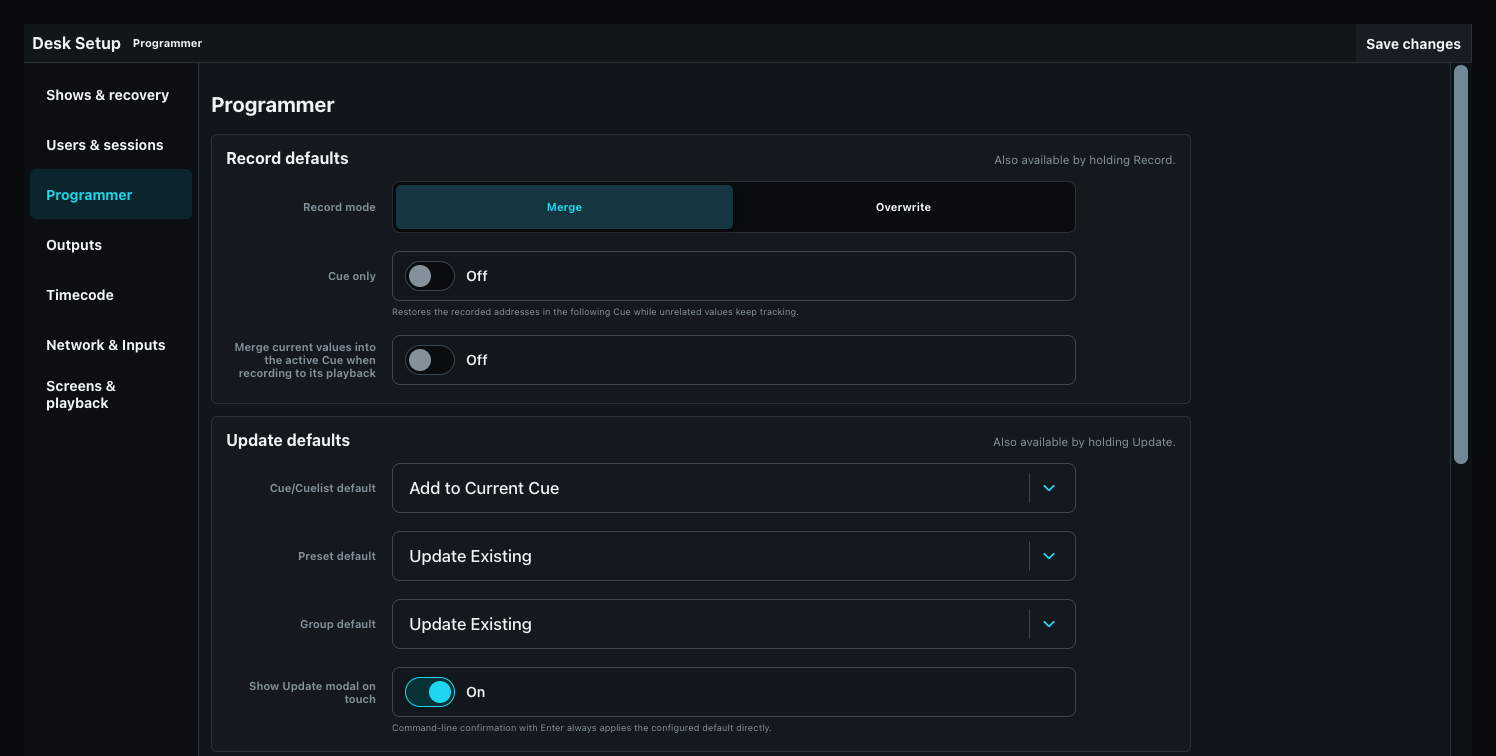
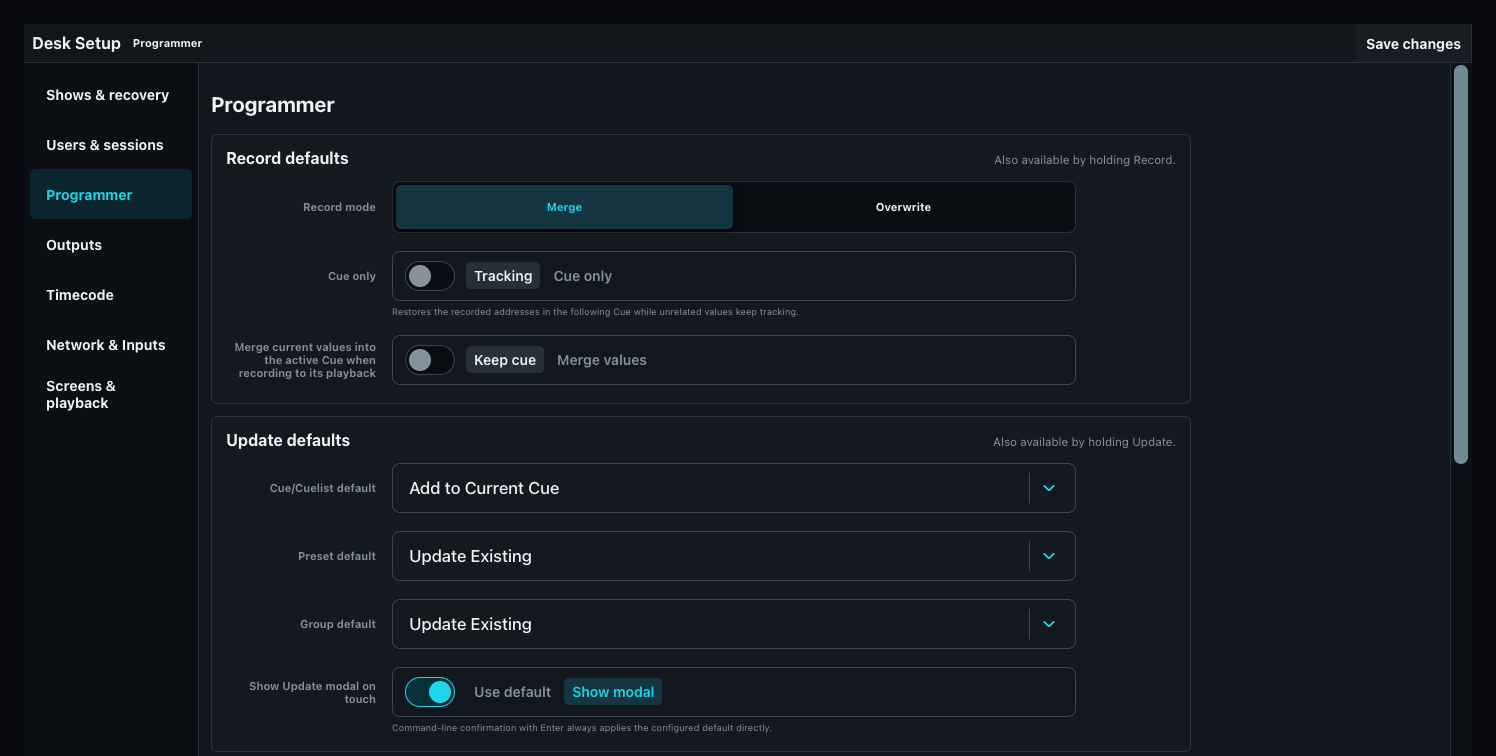
feat: add semantic checkbox and toggle labels

Changed region(s): [[0.3075, 0.8823, 0.4612, 0.9431], [0.3075, 0.4563, 0.4305, 0.5172], [0.3075, 0.3347, 0.3997, 0.3955]]

diff --git a/apps/light-desktop/src/components/modals/PaneSettingsModal.tsx b/apps/light-desktop/src/components/modals/PaneSettingsModal.tsx
@@ -58,7 +58,7 @@ function CuePaneSettings({ pane, cueLists }: { pane: PaneModel; cueLists: readon
   return <FormLayout labelPlacement="side">
     <MultiValueToggleField label="Displayed Cuelist" value={pane.cueListSource ?? "fixed"} onChange={(source) => dispatch({ type: "SET_PANE_CUELIST", id: pane.id, source })} options={[{ value: "fixed", label: "Fixed" }, { value: "follow-selection", label: "Follow selection" }]}/>
     <SelectField label="Cuelist" value={String(fixedNumber ?? "")} disabled={(pane.cueListSource ?? "fixed") !== "fixed" || cueLists.length === 0} onChange={(value) => dispatch({ type: "SET_PANE_CUELIST", id: pane.id, number: Number(value) })} options={cueLists.map((definition) => ({ value: String(definition.number), label: `${definition.number} · ${definition.name}` }))}/>
-    <SwitchField label="Show Cue sidebar" checked={pane.showCueSidebar ?? true} onChange={(event) => dispatch({ type: "SET_PANE_CUE_SIDEBAR", id: pane.id, value: event.target.checked })}/>
+    <SwitchField label="Cue sidebar" offLabel="Hidden" onLabel="Visible" checked={pane.showCueSidebar ?? true} onChange={(event) => dispatch({ type: "SET_PANE_CUE_SIDEBAR", id: pane.id, value: event.target.checked })}/>
   </FormLayout>;
 }
 
@@ -80,16 +80,16 @@ function PaneSettingsDialog({ pane }: { pane: PaneModel }) {
   if (pane.kind === "cues") {
     tabs.push({ id: "cues", label: "Cues", content: <CuePaneSettings pane={pane} cueLists={cuePaneCueLists}/> });
   }
-  if (pane.kind === "presets") tabs.push({ id: "pool", label: "Pool", content: <><h3>Preset family</h3><div className="button-group">{PRESET_FAMILIES.map((family) => <Button key={family} className={(pane.presetFamily ?? state.presetFamily) === family ? "active" : ""} onClick={() => dispatch({ type: "SET_PANE_PRESET_FAMILY", id: pane.id, family })}>{family}</Button>)}</div><SwitchField label="Enable pool colors" checked={pane.presetPoolColors ?? true} onChange={(event) => dispatch({ type: "SET_PANE_PRESET_COLORS", id: pane.id, value: event.target.checked })}/></> });
-  if (pane.kind === "stage") tabs.push({ id: "stage", label: "Stage", content: <FormLayout labelPlacement="side"><MultiValueToggleField label="Stage view" value={pane.stageView ?? "2d"} onChange={(value) => dispatch({ type: "SET_PANE_STAGE_OPTION", id: pane.id, option: "stageView", value })} options={[{ value: "2d", label: "2D" }, { value: "3d", label: "3D" }]}/><SwitchField label="Follow Preload" checked={Boolean(pane.followPreload)} onChange={(event) => dispatch({ type: "SET_PANE_STAGE_OPTION", id: pane.id, option: "followPreload", value: event.target.checked })}/><SwitchField label="Beam direction guides" checked={pane.showBeamGuides ?? true} onChange={(event) => dispatch({ type: "SET_PANE_STAGE_OPTION", id: pane.id, option: "showBeamGuides", value: event.target.checked })}/></FormLayout> });
+  if (pane.kind === "presets") tabs.push({ id: "pool", label: "Pool", content: <><h3>Preset family</h3><div className="button-group">{PRESET_FAMILIES.map((family) => <Button key={family} className={(pane.presetFamily ?? state.presetFamily) === family ? "active" : ""} onClick={() => dispatch({ type: "SET_PANE_PRESET_FAMILY", id: pane.id, family })}>{family}</Button>)}</div><SwitchField label="Pool colors" offLabel="Disabled" onLabel="Enabled" checked={pane.presetPoolColors ?? true} onChange={(event) => dispatch({ type: "SET_PANE_PRESET_COLORS", id: pane.id, value: event.target.checked })}/></> });
+  if (pane.kind === "stage") tabs.push({ id: "stage", label: "Stage", content: <FormLayout labelPlacement="side"><MultiValueToggleField label="Stage view" value={pane.stageView ?? "2d"} onChange={(value) => dispatch({ type: "SET_PANE_STAGE_OPTION", id: pane.id, option: "stageView", value })} options={[{ value: "2d", label: "2D" }, { value: "3d", label: "3D" }]}/><SwitchField label="Preload source" offLabel="Manual" onLabel="Follow preload" checked={Boolean(pane.followPreload)} onChange={(event) => dispatch({ type: "SET_PANE_STAGE_OPTION", id: pane.id, option: "followPreload", value: event.target.checked })}/><SwitchField label="Beam direction guides" offLabel="Hidden" onLabel="Visible" checked={pane.showBeamGuides ?? true} onChange={(event) => dispatch({ type: "SET_PANE_STAGE_OPTION", id: pane.id, option: "showBeamGuides", value: event.target.checked })}/></FormLayout> });
   if (pane.kind === "development") tabs.push({ id: "development", label: "Development", content: <FormLayout labelPlacement="side"><SelectField label="Shown example" value={pane.developmentView ?? "forms"} onChange={(value) => dispatch({ type: "SET_PANE_DEVELOPMENT_VIEW", id: pane.id, value })} options={DEVELOPMENT_VIEW_OPTIONS}/></FormLayout> });
   if (pane.kind === "virtual_playbacks") {
     const rows = pane.virtualPlaybackRows ?? 2;
     const columns = pane.virtualPlaybackColumns ?? 2;
     tabs.push({ id: "virtual", label: "Virtual Playbacks", content: <><FormLayout labelPlacement="side"><NumberField label="Rows" min="1" max="12" value={rows} onChange={(event) => dispatch({ type: "SET_VIRTUAL_PLAYBACK_GRID", id: pane.id, rows: Number(event.target.value), columns })}/><NumberField label="Columns" min="1" max="12" value={columns} onChange={(event) => dispatch({ type: "SET_VIRTUAL_PLAYBACK_GRID", id: pane.id, rows, columns: Number(event.target.value) })}/></FormLayout><p>Assign cells with <b>Set Source</b>, <b>Add Target</b>, or the normal [SET], source, target sequence.</p><VirtualPlaybackZoneSettings pane={pane} rows={rows} columns={columns}/></> });
   }
-  if (pane.kind === "file_manager") tabs.push({ id: "files", label: "File Manager", content: <FormLayout labelPlacement="side"><SwitchField label="Show Hidden" checked={Boolean(pane.fileManagerShowHidden)} onChange={(event) => dispatch({ type: "SET_FILE_MANAGER_SHOW_HIDDEN", id: pane.id, value: event.target.checked })}/></FormLayout> });
-  if (pane.kind === "text_editor") tabs.push({ id: "editor", label: "Text Editor", content: <FormLayout labelPlacement="side"><SwitchField label="Read-only pane" checked={Boolean(pane.textEditorReadOnly)} onChange={(event) => dispatch({ type: "SET_TEXT_EDITOR_SETTINGS", id: pane.id, readOnly: event.target.checked })}/><MultiValueToggleField label="View" value={pane.textEditorMode ?? "plain"} onChange={(mode) => dispatch({ type: "SET_TEXT_EDITOR_SETTINGS", id: pane.id, mode })} options={[{ value: "plain", label: "Plain Text" }, { value: "markdown", label: "Rendered Markdown" }, { value: "split", label: "Edit + Markdown" }]}/></FormLayout> });
-  if (["stage", "fixtures", "presets"].includes(pane.kind)) tabs.push({ id: "shortcuts", label: "Shortcuts", content: <SwitchField label="Show group shortcuts" checked={Boolean(pane.showGroupShortcuts)} onChange={(event) => dispatch({ type: "SET_PANE_GROUP_SHORTCUTS", id: pane.id, value: event.target.checked })}/> });
+  if (pane.kind === "file_manager") tabs.push({ id: "files", label: "File Manager", content: <FormLayout labelPlacement="side"><SwitchField label="Hidden files" offLabel="Hidden" onLabel="Visible" checked={Boolean(pane.fileManagerShowHidden)} onChange={(event) => dispatch({ type: "SET_FILE_MANAGER_SHOW_HIDDEN", id: pane.id, value: event.target.checked })}/></FormLayout> });
+  if (pane.kind === "text_editor") tabs.push({ id: "editor", label: "Text Editor", content: <FormLayout labelPlacement="side"><SwitchField label="Editing" offLabel="Editable" onLabel="Read only" checked={Boolean(pane.textEditorReadOnly)} onChange={(event) => dispatch({ type: "SET_TEXT_EDITOR_SETTINGS", id: pane.id, readOnly: event.target.checked })}/><MultiValueToggleField label="View" value={pane.textEditorMode ?? "plain"} onChange={(mode) => dispatch({ type: "SET_TEXT_EDITOR_SETTINGS", id: pane.id, mode })} options={[{ value: "plain", label: "Plain Text" }, { value: "markdown", label: "Rendered Markdown" }, { value: "split", label: "Edit + Markdown" }]}/></FormLayout> });
+  if (["stage", "fixtures", "presets"].includes(pane.kind)) tabs.push({ id: "shortcuts", label: "Shortcuts", content: <SwitchField label="Group shortcuts" offLabel="Hidden" onLabel="Visible" checked={Boolean(pane.showGroupShortcuts)} onChange={(event) => dispatch({ type: "SET_PANE_GROUP_SHORTCUTS", id: pane.id, value: event.target.checked })}/> });
   return <WindowSettings title="Pane Settings" tabs={tabs} onClose={close} />;
 }

diff --git a/apps/ui-library/src/common/controls/choices.tsx b/apps/ui-library/src/common/controls/choices.tsx
@@ -244,45 +244,75 @@ type CheckProps = Omit<InputHTMLAttributes<HTMLInputElement>, "type" | "size"> &
   labelPlacement?: LabelPlacement;
 };
 
+export type CheckboxFieldProps = CheckProps & {
+  /**
+   * Describes the option controlled by the checkbox. This text remains stable
+   * when the checked state changes.
+   */
+  stateLabel?: ReactNode;
+};
+
+export type SwitchFieldProps = CheckProps & {
+  /** Describes the false state. Both state labels remain visible. */
+  offLabel?: ReactNode;
+  /** Describes the true state. Both state labels remain visible. */
+  onLabel?: ReactNode;
+};
+
 function useFieldId(id?: string) {
   const generated = useId();
   return id ?? generated;
 }
 
-function CheckState({ checked, kind }: { checked?: boolean; kind: "check" | "switch" }) {
-  if (kind === "switch") {
-    return <><span className="ui-switch-track" aria-hidden="true"><i/></span>
-      <span className="ui-check-state">{checked ? "On" : "Off"}</span></>;
-  }
-  return <><span className="ui-check-mark" aria-hidden="true">✓</span>
-    <span className="ui-check-state">{checked ? "Checked" : "Unchecked"}</span></>;
-}
-
-function renderCheckField(
-  kind: "check" | "switch",
-  { label, description, error, labelPlacement, className = "", id, "aria-label": ariaLabel, ...props }: CheckProps,
+function renderCheckboxField(
+  { label, description, error, labelPlacement, className = "", id, stateLabel,
+    "aria-label": ariaLabel, ...props }: CheckboxFieldProps,
   ref: ForwardedRef<HTMLInputElement>,
   fieldId: string,
 ) {
   return <FormField label={label} description={description} error={error}
     htmlFor={fieldId} labelPlacement={labelPlacement} className={className}>
-    <label className={kind === "switch" ? "ui-switch-control" : "ui-check-control"}>
+    <label className="ui-check-control">
       <input {...props} ref={ref} id={fieldId}
         aria-label={ariaLabel ?? (typeof label === "string" ? label : undefined)}
-        type="checkbox" role={kind === "switch" ? "switch" : undefined}/>
-      <CheckState checked={props.checked} kind={kind}/>
+        type="checkbox"/>
+      <span className="ui-check-mark" aria-hidden="true">✓</span>
+      <span className="ui-check-state">
+        {stateLabel ?? (props.checked ? "Checked" : "Unchecked")}
+      </span>
     </label>
   </FormField>;
 }
 
-export const CheckboxField = forwardRef<HTMLInputElement, CheckProps>(function CheckboxField(
+function renderSwitchField(
+  { label, description, error, labelPlacement, className = "", id,
+    offLabel = "Off", onLabel = "On", "aria-label": ariaLabel, ...props }: SwitchFieldProps,
+  ref: ForwardedRef<HTMLInputElement>,
+  fieldId: string,
+) {
+  return <FormField label={label} description={description} error={error}
+    htmlFor={fieldId} labelPlacement={labelPlacement} className={className}>
+    <label className="ui-switch-control">
+      <input {...props} ref={ref} id={fieldId}
+        aria-label={ariaLabel ?? (typeof label === "string" ? label : undefined)}
+        type="checkbox" role="switch"/>
+      <span className="ui-switch-track" aria-hidden="true"><i/></span>
+      <span className="ui-switch-states" aria-hidden="true">
+        <span className="ui-switch-state ui-switch-state-off">{offLabel}</span>
+        <span className="ui-switch-state ui-switch-state-on">{onLabel}</span>
+      </span>
+    </label>
+  </FormField>;
+}
+
+export const CheckboxField = forwardRef<HTMLInputElement, CheckboxFieldProps>(function CheckboxField(
   props, ref,
 ) {
-  return renderCheckField("check", props, ref, useFieldId(props.id));
+  return renderCheckboxField(props, ref, useFieldId(props.id));
 });
 
-export const SwitchField = forwardRef<HTMLInputElement, CheckProps>(function SwitchField(
+export const SwitchField = forwardRef<HTMLInputElement, SwitchFieldProps>(function SwitchField(
   props, ref,
 ) {
-  return renderCheckField("switch", props, ref, useFieldId(props.id));
+  return renderSwitchField(props, ref, useFieldId(props.id));
 });

diff --git a/apps/light-desktop/src/components/setup/screens/ScreenSettingsCards.tsx b/apps/light-desktop/src/components/setup/screens/ScreenSettingsCards.tsx
@@ -39,13 +39,13 @@ function ScreenSettingsFields({
 	return <div className="screen-settings-columns">
 		<section><h3>Layout</h3><div className="screen-settings-fields">
 			<SelectField label="Desktop" value={draft.layout.activeDeskId} onChange={(activeDeskId) => update({ layout: { desks, activeDeskId } })} options={desks.map((desk) => ({ value: desk.id, label: desk.name }))}/>
-			<SwitchField label="Show Dock" checked={draft.show_dock} onChange={(event) => update({ show_dock: event.target.checked })}/>
-			<SwitchField label="Show Playbacks" checked={draft.show_playbacks} onChange={(event) => update({ show_playbacks: event.target.checked })}/>
-			<SwitchField label="Show Page Controls" checked={draft.show_page_controls} onChange={(event) => update({ show_page_controls: event.target.checked })}/>
+			<SwitchField label="Dock" offLabel="Hidden" onLabel="Visible" checked={draft.show_dock} onChange={(event) => update({ show_dock: event.target.checked })}/>
+			<SwitchField label="Playbacks" offLabel="Hidden" onLabel="Visible" checked={draft.show_playbacks} onChange={(event) => update({ show_playbacks: event.target.checked })}/>
+			<SwitchField label="Page controls" offLabel="Hidden" onLabel="Visible" checked={draft.show_page_controls} onChange={(event) => update({ show_page_controls: event.target.checked })}/>
 		</div></section>
 		<section><h3>Placement</h3><div className="screen-settings-fields">
 			<SelectField label="Physical Display" value={draft.display_id ?? ""} onChange={(value) => update({ display_id: value || null })} options={[{ value: "", label: "Choose when opened" }, ...displays.map((display) => ({ value: display.id, label: display.name }))]}/>
-			<SwitchField label="Fullscreen" checked={draft.fullscreen} onChange={(event) => update({ fullscreen: event.target.checked })}/>
+			<SwitchField label="Window mode" offLabel="Windowed" onLabel="Fullscreen" checked={draft.fullscreen} onChange={(event) => update({ fullscreen: event.target.checked })}/>
 			<FormLayout columns={2} minColumnWidth={90}>
 				<NumberField label="Window X" value={draft.bounds?.x ?? 0} onChange={(event) => update({ bounds: bounds({ x: Number(event.target.value) }) })}/>
 				<NumberField label="Window Y" value={draft.bounds?.y ?? 0} onChange={(event) => update({ bounds: bounds({ y: Number(event.target.value) }) })}/>
@@ -208,6 +208,8 @@ export function DefaultScreenSettings({
 				</div>
 				<SwitchField
 					label="Enable software keyboard shortcuts"
+					offLabel="Disabled"
+					onLabel="Enabled"
 					checked={keyboardShortcuts}
 					description="Keyboard shortcuts are always disabled while hardware controls are connected."
 					onChange={(event) => onKeyboardShortcuts(event.target.checked)}

diff --git a/apps/light-desktop/src/components/control/PlaybackConfigurationModal.tsx b/apps/light-desktop/src/components/control/PlaybackConfigurationModal.tsx
@@ -177,9 +177,9 @@ function PlaybackBehaviorTab({ draft, onDraftChange }: { draft: PlaybackDefiniti
   return <FormLayout labelPlacement="side">
     {cueList ? <>
       <MultiValueToggleField label="When Flash or Swap is released" description="Release all removes the temporary values and restores the prior state. Intensity only leaves this Cue List active at zero intensity, retaining values such as color and position." value={draft.flash_release ?? "release_all"} onChange={(flash_release) => onDraftChange({ ...draft, flash_release })} options={[{ value: "release_all", label: "Release all" }, { value: "release_intensity_only", label: "Intensity only" }]}/>
-      <SwitchField label="Turn off when other playbacks take full control" description="Automatically turns this Cue List off once other normal playbacks at full level control every value it was outputting. Partial takeovers, Flash, and Temp do not count." checked={draft.auto_off} onChange={(event) => onDraftChange({ ...draft, auto_off: event.target.checked })}/>
+      <SwitchField label="Turn off when other playbacks take full control" offLabel="Keep active" onLabel="Auto off" description="Automatically turns this Cue List off once other normal playbacks at full level control every value it was outputting. Partial takeovers, Flash, and Temp do not count." checked={draft.auto_off} onChange={(event) => onDraftChange({ ...draft, auto_off: event.target.checked })}/>
     </> : <p className="playback-topology-note">Flash/Swap release and automatic turn-off are available for Cue Lists only.</p>}
-    <SwitchField label="Protect from Swap" description="Keeps this playback at its current level while another playback’s Swap button is held." checked={Boolean(draft.protect_from_swap)} onChange={(event) => onDraftChange({ ...draft, protect_from_swap: event.target.checked })}/>
+    <SwitchField label="Protect from Swap" offLabel="Affected by Swap" onLabel="Protected" description="Keeps this playback at its current level while another playback’s Swap button is held." checked={Boolean(draft.protect_from_swap)} onChange={(event) => onDraftChange({ ...draft, protect_from_swap: event.target.checked })}/>
   </FormLayout>;
 }
 

diff --git a/apps/ui-library/src/common/controls.test.tsx b/apps/ui-library/src/common/controls.test.tsx
@@ -163,26 +163,32 @@ describe("shared controls", () => {
 			within(dialog).queryByRole("button", { name: "Done · Confirm" }),
 		).not.toBeInTheDocument();
 	});
-	it("operates checkbox and switch controls with unified field labels", () => {
+	it("keeps checkbox text stable and presents both semantic switch states", () => {
 		const change = vi.fn();
 		const { container } = render(
 			<FormLayout labelPlacement="side">
 				<CheckboxField
 					label="Dock"
 					aria-label="Dock"
+					stateLabel="Show in every workspace"
 					checked
 					onChange={change}
 				/>
 				<SwitchField
 					label="Fullscreen"
 					aria-label="Fullscreen"
+					offLabel="Windowed"
+					onLabel="Fullscreen"
 					checked
 					onChange={change}
 				/>
 			</FormLayout>,
 		);
-		expect(screen.getByText("Checked")).toBeInTheDocument();
-		expect(screen.getByText("On")).toBeInTheDocument();
+		expect(screen.getByText("Show in every workspace")).toBeInTheDocument();
+		expect(screen.getByText("Windowed")).toBeInTheDocument();
+		expect(
+			container.querySelector(".ui-switch-state-on"),
+		).toHaveTextContent("Fullscreen");
 		fireEvent.click(screen.getByRole("checkbox", { name: "Dock" }));
 		fireEvent.click(screen.getByRole("switch", { name: "Fullscreen" }));
 		expect(change).toHaveBeenCalledTimes(2);
@@ -190,6 +196,17 @@ describe("shared controls", () => {
 			container.querySelectorAll(".ui-form-field.labels-side"),
 		).toHaveLength(2);
 		expect(container.querySelector(".ui-switch-control")).toBeInTheDocument();
+	});
+	it("retains compatible checkbox and switch state defaults", () => {
+		render(
+			<>
+				<CheckboxField label="Legacy checkbox" checked />
+				<SwitchField label="Legacy switch" checked />
+			</>,
+		);
+		expect(screen.getByText("Checked")).toBeInTheDocument();
+		expect(screen.getByText("Off")).toBeInTheDocument();
+		expect(screen.getByText("On")).toBeInTheDocument();
 	});
 	it("selects one value from a shared multi-value toggle", () => {
 		const change = vi.fn();

diff --git a/apps/light-desktop/src/windows/setupWindow/ProgrammerSection.tsx b/apps/light-desktop/src/windows/setupWindow/ProgrammerSection.tsx
@@ -23,6 +23,8 @@ function PatchHighlightSettings({
 			<FormLayout labelPlacement="side">
 				<SwitchField
 					label="Highlight patch selection via DMX"
+					offLabel="Stage only"
+					onLabel="Stage + DMX"
 					checked={draft.patch_preview_highlight_dmx ?? false}
 					onChange={(event) =>
 						controller.editDraft({
@@ -51,6 +53,8 @@ function PreloadSettings({
 			<FormLayout labelPlacement="side">
 				<SwitchField
 					label="Preload programmer changes"
+					offLabel="Ignore"
+					onLabel="Capture"
 					checked={draft.preload_programmer_changes}
 					onChange={(event) =>
 						controller.editDraft({
@@ -61,6 +65,8 @@ function PreloadSettings({
 				/>
 				<SwitchField
 					label="Preload physical playback actions"
+					offLabel="Ignore"
+					onLabel="Capture"
 					checked={draft.preload_physical_playback_actions}
 					onChange={(event) =>
 						controller.editDraft({
@@ -71,6 +77,8 @@ function PreloadSettings({
 				/>
 				<SwitchField
 					label="Preload virtual playback actions"
+					offLabel="Ignore"
+					onLabel="Capture"
 					checked={draft.preload_virtual_playback_actions}
 					onChange={(event) =>
 						controller.editDraft({
@@ -100,6 +108,8 @@ function CommandLineTimingSettings({
 			<FormLayout labelPlacement="side">
 				<SwitchField
 					label="AT uses Programmer Fade"
+					offLabel="Immediate"
+					onLabel="Programmer Fade"
 					checked={draft.command_line_at_uses_programmer_fade ?? true}
 					onChange={(event) =>
 						controller.editDraft({

diff --git a/apps/light-desktop/src/windows/DevelopmentWindow.tsx b/apps/light-desktop/src/windows/DevelopmentWindow.tsx
@@ -49,8 +49,8 @@ function FormElements() {
       <MultiValueToggleField label="4 values" value={fourValues} onChange={setFourValues} options={[{ value: "north", label: "N" }, { value: "east", label: "E" }, { value: "south", label: "S" }, { value: "west", label: "W" }]}/>
       <MultiValueToggleField label="5 values" value={fiveValues} onChange={setFiveValues} options={["1", "2", "3", "4", "5"].map((value) => ({ value, label: value }))}/>
       <MultiValueToggleField label="6 values" value={sixValues} onChange={setSixValues} options={["a", "b", "c", "d", "e", "f"].map((value) => ({ value, label: value.toUpperCase() }))}/>
-      <SwitchField label="Toggle" checked={enabled} onChange={(event) => setEnabled(event.target.checked)}/>
-      <CheckboxField label="Checkbox" checked={checked} onChange={(event) => setChecked(event.target.checked)}/>
+      <SwitchField label="Toggle" offLabel="Manual" onLabel="Automatic" checked={enabled} onChange={(event) => setEnabled(event.target.checked)}/>
+      <CheckboxField label="Checkbox" stateLabel="Include option" checked={checked} onChange={(event) => setChecked(event.target.checked)}/>
       <IconPickerField label="Icon" value={icon} onChange={setIcon}/>
       <ColorPickerField label="Color" value={color} onChange={setColor}/>
       <HorizontalFaderField label="Horizontal fader" value={brightness} minimum={0} maximum={2} step={0.05} display={`${Math.round(brightness * 100)}%`} onChange={setBrightness}/>

diff --git a/apps/light-desktop/src/components/setup/MatterBridgeSettings.tsx b/apps/light-desktop/src/components/setup/MatterBridgeSettings.tsx
@@ -18,7 +18,7 @@ export function MatterBridgeSettings() {
 
   return <article className="matter-desk-settings" aria-label="Matter playback bridge">
     <header><div><b>Matter playback bridge</b><small>Desk installation · shared across shows and Desktops</small></div></header>
-    <SwitchField label={enabled ? "Matter server enabled" : "Matter server disabled"} checked={enabled} onChange={(event) => toggleMatter(event.target.checked)}/>
+    <SwitchField label="Matter server" offLabel="Disabled" onLabel="Enabled" checked={enabled} onChange={(event) => toggleMatter(event.target.checked)}/>
     <p>{!enabled ? "Disabled. No Matter lights are advertised." : matter?.transport === "running" ? `${matter.lights.length} assigned playback${matter.lights.length === 1 ? "" : "s"} exposed as dimmable lights.` : matter?.limitation ?? "Starting Matter networking…"}</p>
     {matter?.commissionable && matter.pairing && <div className="matter-pairing"><b>Ready to commission</b><span>Manual pairing code</span><code>{matter.pairing.manual_code}</code><Button onClick={() => void navigator.clipboard?.writeText(matter.pairing?.manual_code ?? "")}>Copy pairing code</Button><details><summary>QR payload</summary><code>{matter.pairing.qr_code}</code></details></div>}
     {matter?.commissioned && <small>Commissioned on the local Matter fabric. Playback changes and controller writes are synchronized in both directions.</small>}

diff --git a/apps/light-desktop/src/components/setup/OutputRoutesSetup.tsx b/apps/light-desktop/src/components/setup/OutputRoutesSetup.tsx
@@ -150,7 +150,7 @@ export function OutputRoutesSetup({ routes, onSave, onDelete, outputBindIp }: Ou
           {draft.body.delivery_mode === "unicast" && <TextField label="Destination" value={draft.body.destination ?? ""} description="Required IPv4 address and port, for example 10.0.0.20:6454." onChange={(event) => setDraft({ ...draft, body: { ...draft.body, destination: event.target.value } })}/>}
           {draft.body.delivery_mode === "broadcast" && <p className="field-description">Art-Net Broadcast uses the global destination 255.255.255.255:6454. The desk's output bind address selects the lighting-network interface.</p>}
           {draft.body.delivery_mode === "multicast" && <p className="field-description">sACN Multicast derives its 239.255.x.y:5568 destination from the destination universe.</p>}
-          <SwitchField label="Enabled" checked={draft.body.enabled} onChange={(event) => setDraft({ ...draft, body: { ...draft.body, enabled: event.target.checked } })}/>
+          <SwitchField label="Route state" offLabel="Disabled" onLabel="Enabled" checked={draft.body.enabled} onChange={(event) => setDraft({ ...draft, body: { ...draft.body, enabled: event.target.checked } })}/>
         </FormLayout>
         {error && <p className="ui-field-error" role="alert">{error}</p>}
         {confirmDelete ? <div className="delete-confirm">

diff --git a/apps/ui-library/storybook/tests/ui-stories.spec.ts b/apps/ui-library/storybook/tests/ui-stories.spec.ts
@@ -1234,16 +1234,23 @@ test("configured search children share stack order, focus, form geometry, and di
 	const switchField = settings.locator(".ui-form-field").filter({
 		hasText: "Favorites only",
 	});
-	const [labelBox, switchBox, stateBox] = await Promise.all([
+	const [labelBox, switchBox, statesBox] = await Promise.all([
 		switchField.locator(":scope > label").boundingBox(),
 		switchField.locator(".ui-switch-track").boundingBox(),
-		switchField.getByText(/^(On|Off)$/u).boundingBox(),
+		switchField.locator(".ui-switch-states").boundingBox(),
 	]);
 	expect(labelBox).not.toBeNull();
 	expect(switchBox).not.toBeNull();
-	expect(stateBox).not.toBeNull();
+	expect(statesBox).not.toBeNull();
+	await expect(switchField.locator(".ui-switch-state")).toHaveCount(2);
+	await expect(switchField.locator(".ui-switch-state-off")).toHaveText(
+		"All fixtures",
+	);
+	await expect(switchField.locator(".ui-switch-state-on")).toHaveText(
+		"Favorites",
+	);
 	expect(Math.abs(labelBox!.y - switchBox!.y)).toBeLessThan(24);
-	expect(switchBox!.x + switchBox!.width).toBeLessThanOrEqual(stateBox!.x);
+	expect(switchBox!.x + switchBox!.width).toBeLessThanOrEqual(statesBox!.x);
 
 	const nestedKeyboardTrigger = settings.getByRole("button", {
 		name: "Open keyboard",

diff --git a/apps/light-desktop/src/windows/FixtureSheetSettings.tsx b/apps/light-desktop/src/windows/FixtureSheetSettings.tsx
@@ -92,6 +92,8 @@ function FixtureSheetViewSettings({
 				<h3>Filters</h3>
 				<SwitchField
 					label="Show active fixtures only"
+					offLabel="All fixtures"
+					onLabel="Active only"
 					checked={activeOnly}
 					onChange={(event) =>
 						dispatch({
@@ -143,6 +145,8 @@ function FixtureSheetColumnSettings() {
 						<SwitchField
 							key={column}
 							label={columnLabels[column]}
+							offLabel="Hidden"
+							onLabel="Visible"
 							checked={state.fixtureSheetColumns.includes(column)}
 							disabled={
 								state.fixtureSheetColumns.length === 1 &&
@@ -157,6 +161,8 @@ function FixtureSheetColumnSettings() {
 				<h3>Name details</h3>
 				<SwitchField
 					label="Show fixture type"
+					offLabel="Name only"
+					onLabel="Show type"
 					checked={state.fixtureSheetShowType}
 					disabled={!state.fixtureSheetColumns.includes("name")}
 					onChange={(event) =>
@@ -176,6 +182,8 @@ function FixtureSheetGroupSettings({ visible }: { visible: boolean }) {
 	return (
 		<SwitchField
 			label="Enable group shortcuts"
+			offLabel="Hidden"
+			onLabel="Visible"
 			checked={visible}
 			onChange={(event) =>
 				dispatch({

diff --git a/apps/light-desktop/src/components/modals/DeskSettingsModal.test.tsx b/apps/light-desktop/src/components/modals/DeskSettingsModal.test.tsx
@@ -68,9 +68,7 @@ describe("physical desk Matter playback bridge settings", () => {
   it("shows disabled state and persists the toggle without discarding other desk settings", () => {
     render(<MatterBridgeSettings />);
 
-    const toggle = screen.getByRole("switch", {
-      name: "Matter server disabled",
-    });
+    const toggle = screen.getByRole("switch", { name: "Matter server" });
     expect(toggle).not.toBeChecked();
     expect(screen.getByText("Disabled. No Matter lights are advertised.")).toBeInTheDocument();
 
@@ -87,7 +85,7 @@ describe("physical desk Matter playback bridge settings", () => {
 
     render(<MatterBridgeSettings />);
 
-    expect(screen.getByRole("switch", { name: "Matter server enabled" })).toBeChecked();
+    expect(screen.getByRole("switch", { name: "Matter server" })).toBeChecked();
     expect(screen.getByText("0 assigned playbacks exposed as dimmable lights.")).toBeInTheDocument();
     expect(screen.getByText(/including button-only controls; empty slots are not advertised/i)).toBeInTheDocument();
     expect(screen.queryByText("Ready to commission")).not.toBeInTheDocument();
